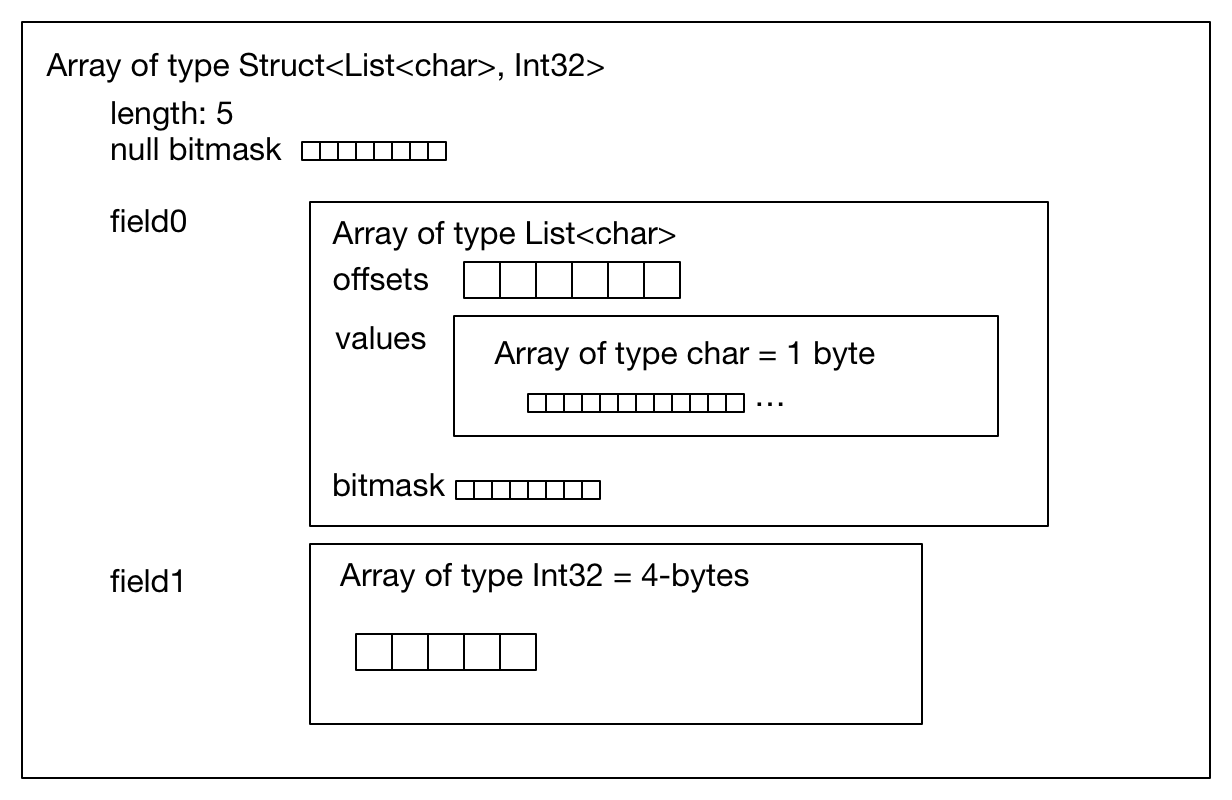
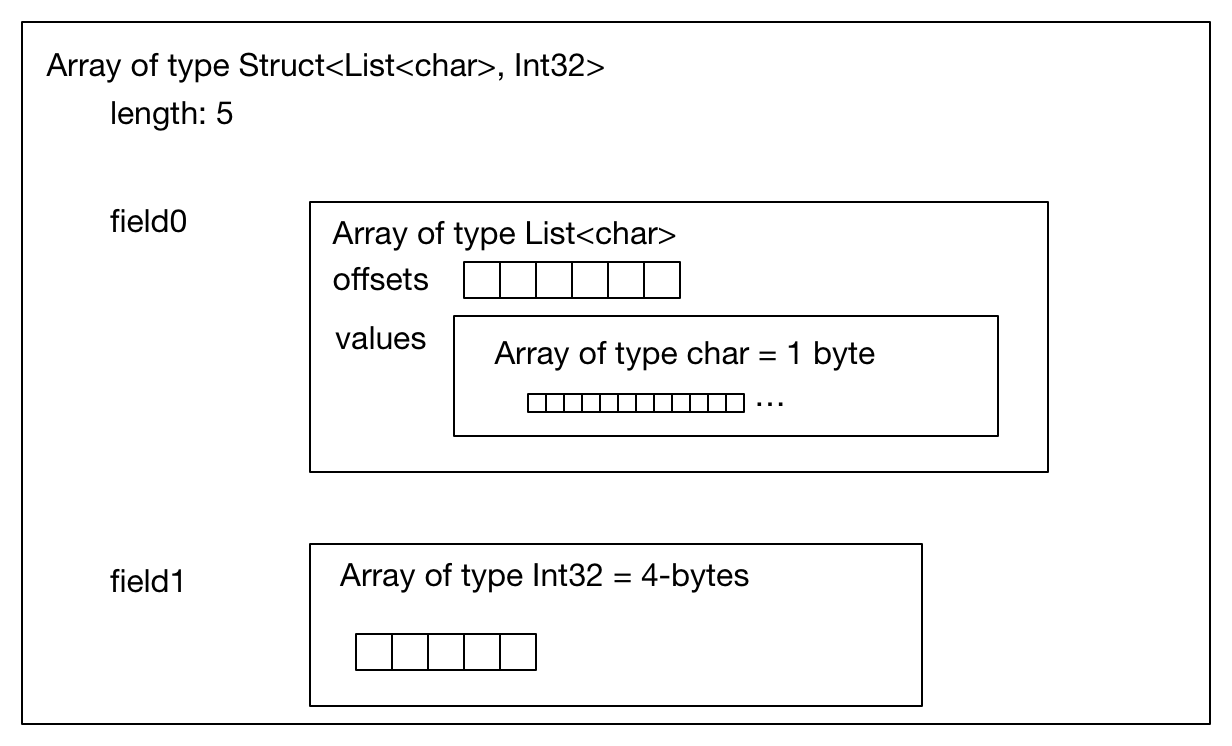
ARROW-62: Clarify null bitmap interpretation, indicate bit-endianness, add null count, remove non-nullable physical distinction
As the initial scribe for the Arrow format, I made a mistake in what the null bits mean (1 for not-null, 0 for null). I also addressed ARROW-56 (bit-numbering) here.

Database systems are split on this subject. PostgreSQL for example does it this way:

http://www.postgresql.org/docs/9.5/static/storage-page-layout.html

> In this list of bits, a 1 bit indicates not-null, a 0 bit is a null. When the bitmap is not present, all columns are assumed not-null.

Since the Drill implementation predates the Arrow project, I think it's safe to go with this.

This patch also includes ARROW-76 which adds a "null count" to the memory layout indicating the actual number of nulls in an array. This also strikes the "non-nullable" distinction from the memory layout as there is no semantic difference between arrays with null count 0 and a non-nullable array. Instead, users may choose to set `nullable=false` in the schema metadata and verify that Arrow memory conforms to the schema.

Author: Wes McKinney <wesm@apache.org>

Closes #34 from wesm/ARROW-62 and squashes the following commits:

8c92926 [Wes McKinney] Add to README about what the format documents are
1f6fe03 [Wes McKinney] Account for null count and non-nullable removal from ARROW-76
648fd47 [Wes McKinney] Indicate that bitmaps should be a multiple of 8 bytes
4333d82 [Wes McKinney] Use 'null bitmap' similar to PostgreSQL documentation
dac77d4 [Wes McKinney] Revise format document language re: null bitmaps per feedback
[…]

diff --git a/format/Layout.md b/format/Layout.md
@@ -42,7 +42,7 @@ Base requirements
 * Capable of representing fully-materialized and decoded / decompressed Parquet
   data
 * All leaf nodes (primitive value arrays) use contiguous memory regions
-* Each relative type can be nullable or non-nullable
+* Any relative type can be have null slots
 * Arrays are immutable once created. Implementations can provide APIs to mutate
   an array, but applying mutations will require a new array data structure to
   be built.
@@ -56,7 +56,7 @@ Base requirements
 * To describe relative types (physical value types and a preliminary set of
   nested types) sufficient for an unambiguous implementation
 * Memory layout and random access patterns for each relative type
-* Null representation for nullable types
+* Null value representation
 
 ## Non-goals (for this document
 
@@ -79,28 +79,55 @@ Base requirements
 Any array has a known and fixed length, stored as a 32-bit signed integer, so a
 maximum of 2^31 - 1 elements. We choose a signed int32 for a couple reasons:
 
-* Enhance compatibility with Java and client languages which may have varying quality of support for unsigned integers.
+* Enhance compatibility with Java and client languages which may have varying
+  quality of support for unsigned integers.
 * To encourage developers to compose smaller arrays (each of which contains
   contiguous memory in its leaf nodes) to create larger array structures
   possibly exceeding 2^31 - 1 elements, as opposed to allocating very large
   contiguous memory blocks.
 
-## Nullable and non-nullable arrays
+## Null count
 
-Any relative type can be nullable or non-nullable.
+The number of null value slots is a property of the physical array and
+considered part of the data structure. The null count is stored as a 32-bit
+signed integer, as it may be as large as the array length.
 
-Nullable arrays have a contiguous memory buffer, known as the null bitmask,
-whose length is large enough to have 1 bit for each array slot. Whether any
-array slot is null is encoded in the respective bits of this bitmask, i.e.:
+## Null bitmaps
+
+Any relative type can have null value slots, whether primitive or nested type.
+
+An array with nulls must have a contiguous memory buffer, known as the null (or
+validity) bitmap, whose length is a multiple of 8 bytes (to avoid
+word-alignment concerns) and large enough to have at least 1 bit for each array
+slot.
+
+Whether any array slot is valid (non-null) is encoded in the respective bits of
+this bitmap. A 1 (set bit) for index `j` indicates that the value is not null,
+while a 0 (bit not set) indicates that it is null. Bitmaps are to be
+initialized to be all unset at allocation time.
 
 ```
-is_null[j] -> bitmask[j / 8] & (1 << (j % 8))
+is_valid[j] -> bitmap[j / 8] & (1 << (j % 8))
 ```
 
-Physically, non-nullable (NN) arrays do not have a null bitmask.
+We use [least-significant bit (LSB) numbering][1] (also known as
+bit-endianness). This means that within a group of 8 bits, we read
+right-to-left:
 
-For nested types, if the top-level nested type is nullable, it has its own
-bitmask regardless of whether the child types are nullable.
+```
+values = [0, 1, null, 2, null, 3]
+
+bitmap
+j mod 8   7  6  5  4  3  2  1  0
+          0  0  1  0  1  0  1  1
+```
+
+Arrays having a 0 null count may choose to not allocate the null
+bitmap. Implementations may choose to always allocate one anyway as a matter of
+convenience, but this should be noted when memory is being shared.
+
+Nested type arrays have their own null bitmap and null count regardless of
+the null count and null bits of their child arrays.
 
 ## Primitive value arrays
 
@@ -112,9 +139,8 @@ Internally, the array contains a contiguous memory buffer whose total size is
 equal to the slot width multiplied by the array length. For bit-packed types,
 the size is rounded up to the nearest byte.
 
-The associated null bitmask (for nullable types) is contiguously allocated (as
-described above) but does not need to be adjacent in memory to the values
-buffer.
+The associated null bitmap is contiguously allocated (as described above) but
+does not need to be adjacent in memory to the values buffer.
 
 (diagram not to scale)
 
@@ -180,22 +206,22 @@ For example, the struct (field names shown here as strings for illustration
 purposes)
 
 ```
-Struct [nullable] <
-  name: String (= List<char>) [nullable],
-  age: Int32 [not-nullable]
+Struct <
+  name: String (= List<char>),
+  age: Int32
 >
 ```
 
-has two child arrays, one List<char> array (layout as above) and one
-non-nullable 4-byte physical value array having Int32 (not-null) logical
-type. Here is a diagram showing the full physical layout of this struct:
+has two child arrays, one List<char> array (layout as above) and one 4-byte
+physical value array having Int32 logical type. Here is a diagram showing the
+full physical layout of this struct:
 
 <img src="diagrams/layout-list-of-struct.png" width="400"/>
 
 While a struct does not have physical storage for each of its semantic slots
 (i.e. each scalar C-like struct), an entire struct slot can be set to null via
-the bitmask. Whether each of the child field arrays can have null values
-depends on whether or not the respective relative type is nullable.
+the null bitmap. Any of the child field arrays can have null values according
+to their respective independent null bitmaps.
 
 ## Dense union type
 
@@ -233,8 +259,7 @@ Here is a diagram of an example dense union:
 
 A sparse union has the same structure as a dense union, with the omission of
 the offsets array. In this case, the child arrays are each equal in length to
-the length of the union. This is analogous to a large struct in which all
-fields are nullable.
+the length of the union.
 
 While a sparse union may use significantly more space compared with a dense
 union, it has some advantages that may be desirable in certain use cases:
@@ -251,3 +276,5 @@ the correct value.
 ## References
 
 Drill docs https://drill.apache.org/docs/value-vectors/
+
+[1]: https://en.wikipedia.org/wiki/Bit_numbering

diff --git a/format/README.md b/format/README.md
@@ -3,3 +3,20 @@
 > **Work-in-progress specification documents**. These are discussion documents
 > created by the Arrow developers during late 2015 and in no way represents a
 > finalized specification.
+
+Currently, the Arrow specification consists of these pieces:
+
+- Physical memory layout specification (see Layout.md)
+- Metadata serialized representation (see Message.fbs)
+
+The metadata currently uses Google's [flatbuffers library][1] for serializing a
+couple related pieces of information:
+
+- Schemas for tables or record (row) batches. This contains the logical types,
+  field names, and other metadata. Schemas do not contain any information about
+  actual data.
+- *Data headers* for record (row) batches. These must correspond to a known
+   schema, and enable a system to send and receive Arrow row batches in a form
+   that can be precisely disassembled or reconstructed.
+
+[1]: http://github.com/google/flatbuffers
